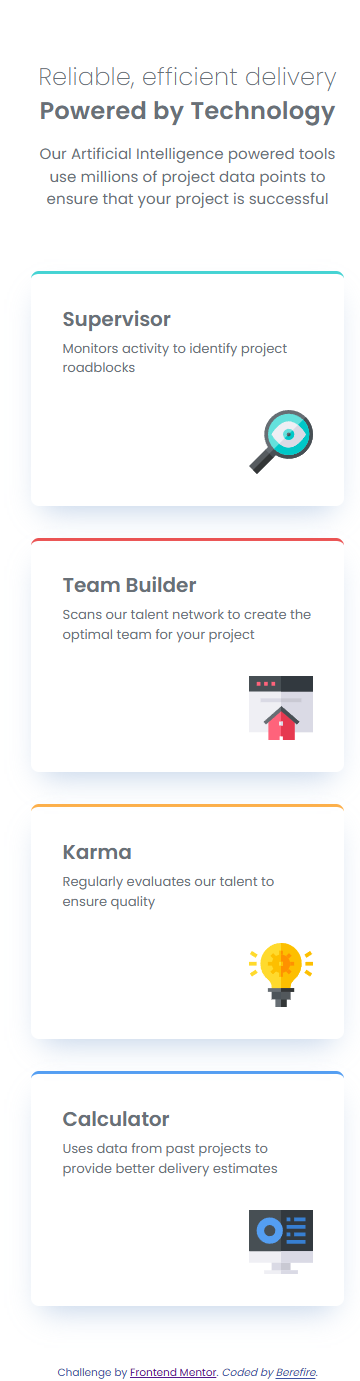
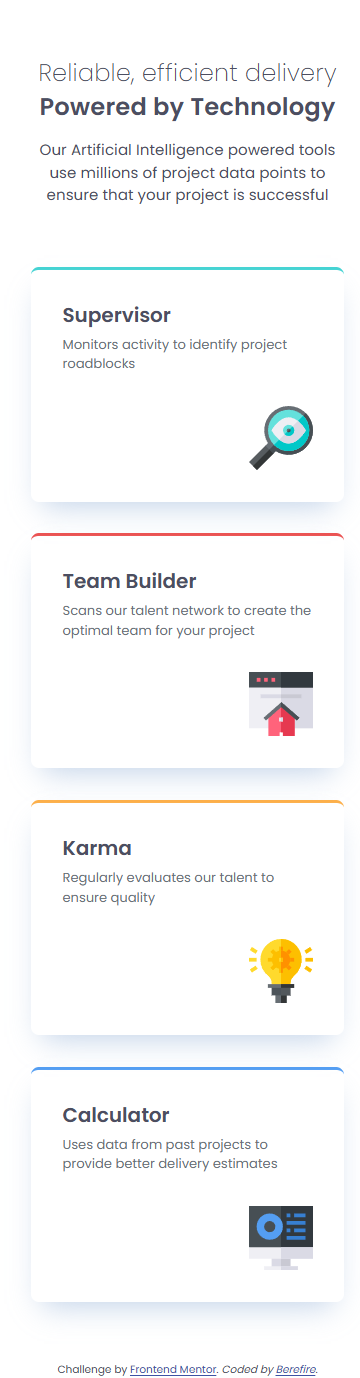
refactor(responsive): refine grid areas and spacing across breakpoints

diff --git a/css/composition/box.css b/css/composition/box.css
@@ -1,5 +1,5 @@
 .box-xl {
-    margin-block: var(--space-xl);
+    margin-block: var(--space-lg-plus) var(--space-xl-tight);
 }
 
 .box-lg {
@@ -13,55 +13,23 @@
     max-width: var(--card-max-s);
 }
 
-.box-m {
-    display: grid;
-    place-items: center;
-    gap: var(--space-lg);
-}
 
-
-@media (min-width: 40rem){
+@media (min-width: 48rem){
     .box-xl {
-        margin-block: var(--space-3xl);
+        margin-block: var(--space-3xl-tight) var(--space-4xl);
     }
 
     .box-s {
         max-width: var(--card-max-l);
     }
-
-    .box-m {
-        display: grid;
-        grid-template-columns: repeat(4, 1fr);
-        grid-template-areas:
-            ". team team ."
-            "sup sup karma karma"
-            ". calc calc ."
-    }
-
-    .card--team {
-        grid-area: team;
-    }
-    .card--supervisor {
-        grid-area: sup;
-    }
-    .card--karma {
-        grid-area: karma;
-    }
-
-    .card--calculator {
-        grid-area: calc;
-    }
 }
 
-@media (min-width: 64rem){
-    .box-m {
-        display: grid;
-        grid-template-rows: repeat(4, 1fr);
-        grid-template-columns: repeat(3, 1fr);
-        grid-template-areas:
-            ".   team   ."
-            "sup team calc"
-            "sup karma calc"
-            ". karma ."
+@media (min-width: 64rem) {
+    .box-xl {
+        margin-block: var(--space-4xl-plus) var(--space-6xl);
+    }
+
+    .box-lg {
+        max-width: var(--card-max-m);
     }
 }

diff --git a/css/base/tokens.css b/css/base/tokens.css
@@ -25,11 +25,17 @@
 
     /* Core spacing */
     --space-lg: 2.13rem;         /* 32px → 32 ÷ 15 */
+    --space-lg-plus: 3.73rem;    /* 56px → 56 ÷ 15 */
 
      /* Large spacing */
     --space-xl: 4rem;           /* 60px → 60 ÷ 15 */
+    --space-xl-tight: 4.07rem;  /* 61px → 61 ÷ 15 */
     --space-2xl: 4.25rem;        /* 64px → 64 ÷ 15 */
     --space-3xl: 4.93rem;       /* 74px → 74 ÷ 15 */
+    --space-3xl-tight: 5.33rem; /* 80px → 80 ÷ 15 */
+    --space-4xl: 6.33rem;       /* 95px → 95 ÷ 15 */
+    --space-4xl-plus: 6.8rem;   /* 102px → 102 ÷ 15 */
+    --space-6xl: 10.87rem;      /* 163px → 163 ÷ 15 */
 
     /* Font families */
     --font-main: "Poppins", sans-serif;
@@ -73,13 +79,12 @@
 
     /* Card widths */
     --card-max-s: 20.93rem;      /* 314px */
+    --card-max-m: 23.33rem;      /* 350px */
     --card-max-l: 36rem;         /* 540px */
 
-    /* Break points */
-    --bp-sm: 40rem;    /* 600px */
-    --bp-md: 68.3rem; /* 1024px */
-    --bp-lg: 85.3rem; /* 1280px */
-    --bp-xl: 96rem;   /* 1440px */
+    /* Break points always 16px as base */
+    --bp-md: 48rem;  /* 768px */
+    --bp-lg: 64rem;  /* 1024px */
 }
 
  

diff --git a/css/composition/cards-grid.css b/css/composition/cards-grid.css
@@ -1,0 +1,36 @@
+.cards-grid {
+    display: grid;
+    gap: var(--space-lg);
+}
+
+.cards-grid > * {
+    height: 100%;
+}
+
+@media (min-width: 48rem) {
+    .cards-grid {
+        grid-template-columns: repeat(4, 1fr);
+        grid-template-areas: 
+            ". b b ."
+            "a a c c"
+            ". d d .";
+        
+    }
+
+    .cards-grid > :nth-child(1) { grid-area: a }
+    .cards-grid > :nth-child(2) { grid-area: b }
+    .cards-grid > :nth-child(3) { grid-area: c }
+    .cards-grid > :nth-child(4) { grid-area: d }
+}
+
+@media (min-width: 64rem) {
+    .cards-grid {
+        grid-template-rows: repeat(4, 1fr);
+        grid-template-columns: repeat(3, 1fr);
+        grid-template-areas:
+            ". b ."
+            "a b d"
+            "a c d"
+            ". c .";
+    }
+}

diff --git a/css/blocks/titles.css b/css/blocks/titles.css
@@ -1,6 +1,6 @@
 .title-extralight {
     font-weight: var(--weight-extralight);
-    font-size: var(--text-fluid-lg);
+    font-size: var(--fs-lg);
     letter-spacing: var(--space-thin);
     line-height: var(--lh-titles);
 }
@@ -8,4 +8,10 @@
 .title-semibold {
     display: block;
     font-weight: var(--weight-semibold);
+}
+
+@media (min-width: 48rem){
+    .title-extralight {
+        font-size: var(--fs-xl);
+    }
 }

diff --git a/index.html b/index.html
@@ -32,7 +32,7 @@
       </div>
 
 
-      <div class="[ box-m ]">
+      <div class="[ cards-grid ]">
         <article class="[ card card--supervisor ] [ box-lg stack-lg ]">
           <div class="[ stack-xs ] [ card__text ]">
             <h2>Supervisor</h2>

diff --git a/css/main.css b/css/main.css
@@ -9,6 +9,7 @@
 @import "./composition/page.css";
 @import "./composition/stack.css";
 @import "./composition/box.css";
+@import "./composition/cards-grid.css";
 
 /* ========== UTILITIES ========== */
 @import "./utilities/link.css";

diff --git a/css/blocks/attribution.css b/css/blocks/attribution.css
@@ -1,6 +1,6 @@
 .attribution {
     font-size: var(--text-fluid-xs);
     line-height: var(--lh-titles);
-    color: var(--color-link);
+    color: var(--color-bg-titles);
     text-align: center;
 }

diff --git a/css/composition/stack.css b/css/composition/stack.css
@@ -14,7 +14,7 @@
     margin-block-start: var(--space-xs);
 }
 
-@media (min-width: 30rem){
+@media (min-width: 48rem){
     .stack-xl > * + * {
         margin-block-start: var(--space-3xl);
     }
